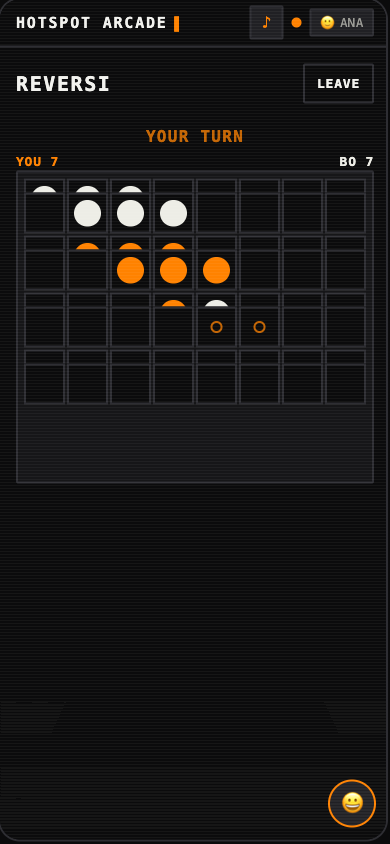
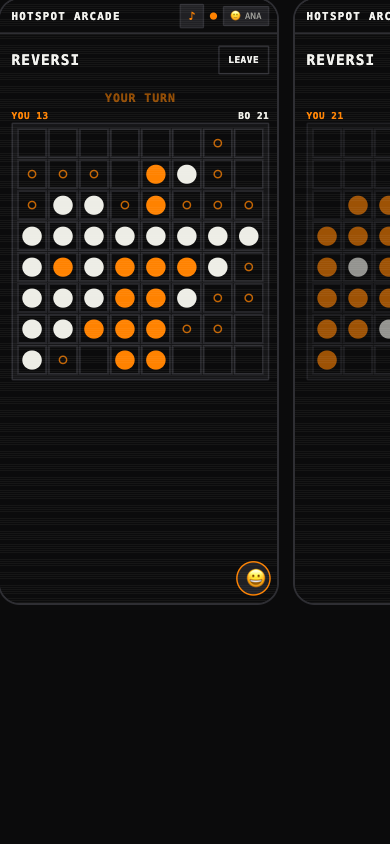
docs: better reversi/dots screenshots + both-sides Draw & Guess
Regenerate the Reversi and Dots & Boxes screenshots from natural mid/late
gameplay (Reversi was never broken; the old shot was a degenerate auto-play
capture). Draw & Guess now shows both perspectives side by side — the drawer's
view with the secret word and a guesser's view with blanks and the live guess
chat — pulled into its own wider showcase row in the README.

Changed region(s): [[0.0308, 0.0, 1.0, 1.0], [0.3692, 0.0924, 0.4615, 0.1232], [0.0, 0.9858, 0.0615, 1.0]]

diff --git a/README.md b/README.md
@@ -72,8 +72,14 @@ ready-up lobby, countdown, and the collapsible live leaderboard:
   <img src="docs/img/web-wyr.png" alt="Would You Rather: A/B poll with the live vote split" width="19%">
   <img src="docs/img/web-scramble.png" alt="Word Scramble: unscramble the letters and type the word" width="19%">
   <img src="docs/img/web-react.png" alt="Reaction Duel: fastest finger with reaction time and leaderboard" width="19%">
-  <img src="docs/img/web-draw.png" alt="Draw &amp; Guess: shared canvas with a live guess chat" width="19%">
   <img src="docs/img/web-pong.png" alt="Pong: real-time 1v1 rally with on-screen paddles" width="19%">
+</p>
+
+Draw &amp; Guess relays the drawer's strokes to every guesser's canvas in real time — the
+drawer's side (with the secret word) beside a guesser's side (blanks plus the live guess chat):
+
+<p align="center">
+  <img src="docs/img/web-draw.png" alt="Draw &amp; Guess: the drawer's view showing the secret word beside a guesser's view with blanks and the live guess chat" width="46%">
 </p>
 
 The 1v1 board duels (Connect Four, Tic-Tac-Toe, Dots &amp; Boxes, Reversi):